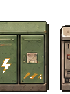
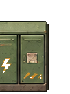
se corrigen solapamientos de sprites

Changed region(s): [[0.8571, 0.2553, 1.0, 0.9787]]

diff --git a/DeadBeat/core/src/main/java/com/deadbeat/world/CityMap.java b/DeadBeat/core/src/main/java/com/deadbeat/world/CityMap.java
@@ -269,8 +269,135 @@ public final class CityMap implements CollisionMap {
             float ry=streetCenter(by)+streetHalf(by)-26f;
             add(solids,rx,ry,96,46,Kind.CAR,2+s%2);
         }
+        resolveLayout(solids, decals, west, south, east, north);
         return new CityBlock(bx,by,district,west,south,east,north,
             solids.toArray(new Obstacle[0]), decals.toArray(new Decoration[0]));
+    }
+
+    private void resolveLayout(List<Obstacle> solids,List<Decoration> decals,
+                               float west,float south,float east,float north) {
+        resolveObstacleOverlaps(solids, west, south, east, north);
+        List<Decoration> cleaned = new ArrayList<Decoration>(decals.size());
+        for (Decoration d : decals) {
+            Decoration placed = relocateDecoration(d, cleaned, solids, west, south, east, north);
+            if (placed != null) cleaned.add(placed);
+        }
+        decals.clear();
+        decals.addAll(cleaned);
+    }
+
+    private void resolveObstacleOverlaps(List<Obstacle> solids,float west,float south,float east,float north) {
+        List<Obstacle> kept = new ArrayList<Obstacle>(solids.size());
+        for (Obstacle o : solids) {
+            if (o.kind == Kind.BUILDING) { kept.add(o); continue; }
+            if (!overlapsAny(o, kept, obstaclePadding(o.kind))) { kept.add(o); continue; }
+            Obstacle moved = relocateObstacle(o, kept, west, south, east, north);
+            if (moved != null) kept.add(moved);
+        }
+        solids.clear();
+        solids.addAll(kept);
+    }
+
+    private Obstacle relocateObstacle(Obstacle o,List<Obstacle> solids,float west,float south,float east,float north) {
+        float[] tries = new float[]{0f, 18f, -18f, 36f, -36f, 54f, -54f, 72f, -72f};
+        float pad = obstaclePadding(o.kind);
+        for (float dy : tries) for (float dx : tries) {
+            float nx = clamp(o.x + dx, west, east - o.width);
+            float ny = clamp(o.y + dy, south, north - o.height);
+            Obstacle candidate = new Obstacle(nx, ny, o.width, o.height, o.kind, o.style);
+            if (!overlapsAny(candidate, solids, pad)) return candidate;
+        }
+        return null;
+    }
+
+    private Decoration relocateDecoration(Decoration d,List<Decoration> placed,List<Obstacle> solids,
+                                          float west,float south,float east,float north) {
+        float[] tries = new float[]{0f, 14f, -14f, 28f, -28f, 42f, -42f, 56f, -56f};
+        float pad = decorationPadding(d.kind);
+        boolean avoidDecor = avoidDecorationOverlap(d.kind);
+        for (float dy : tries) for (float dx : tries) {
+            float nx = clamp(d.x + dx, west, east - d.width);
+            float ny = clamp(d.y + dy, south, north - d.height);
+            Decoration candidate = new Decoration(nx, ny, d.width, d.height, d.kind, d.style);
+            if (overlapsAny(candidate, solids, pad)) continue;
+            if (avoidDecor && overlapsAnyDecor(candidate, placed, pad)) continue;
+            return candidate;
+        }
+        return null;
+    }
+
+    private static boolean avoidDecorationOverlap(DecorKind kind) {
+        switch (kind) {
+            case PAPER:
+            case WEEDS:
+            case PUDDLE:
+            case GRAFFITI:
+                return false;
+            default:
+                return true;
+        }
+    }
+
+    private static float obstaclePadding(Kind kind) {
+        switch (kind) {
+            case FENCE: return 8f;
+            case CAR: return 6f;
+            case DUMPSTER:
+            case TENT:
+            case CRATE:
+            case BARRICADE:
+            case PLANTER:
+                return 5f;
+            default: return 0f;
+        }
+    }
+
+    private static float decorationPadding(DecorKind kind) {
+        switch (kind) {
+            case LAMP: return 8f;
+            case BENCH:
+            case VENDING:
+            case POWER:
+            case BARREL:
+            case TIRES:
+            case PALLET:
+            case BIN:
+            case FENCE:
+                return 5f;
+            case TRASH: return 4f;
+            default: return 1f;
+        }
+    }
+
+    private static boolean overlapsAny(Obstacle o,List<Obstacle> others,float padding) {
+        for (Obstacle other : others) {
+            if (intersects(o.x, o.y, o.width, o.height, other.x, other.y, other.width, other.height, padding)) return true;
+        }
+        return false;
+    }
+
+    private static boolean overlapsAny(Decoration d,List<Obstacle> others,float padding) {
+        for (Obstacle other : others) {
+            if (intersects(d.x, d.y, d.width, d.height, other.x, other.y, other.width, other.height, padding)) return true;
+        }
+        return false;
+    }
+
+    private static boolean overlapsAnyDecor(Decoration d,List<Decoration> others,float padding) {
+        for (Decoration other : others) {
+            if (intersects(d.x, d.y, d.width, d.height, other.x, other.y, other.width, other.height, padding)) return true;
+        }
+        return false;
+    }
+
+    private static boolean intersects(float ax,float ay,float aw,float ah,
+                                      float bx,float by,float bw,float bh,float padding) {
+        return ax + aw > bx + padding && ax + padding < bx + bw
+            && ay + ah > by + padding && ay + padding < by + bh;
+    }
+
+    private static float clamp(float value,float min,float max) {
+        return Math.max(min, Math.min(max, value));
     }
 
     private static void addBuilding(List<Obstacle> solids,float x,float y,float w,float h,int style) {

diff --git a/DeadBeat/docs/PROPS_0_5_3.md b/DeadBeat/docs/PROPS_0_5_3.md
@@ -42,3 +42,9 @@ Además se comprobaron las dimensiones y transparencia de los PNG corregidos. El
 - Para modificar la distancia a la que se rompen las bolsas: `CityMap.breakGarbageNear` y el radio pasado desde `GameWorld.update`.
 - Para sustituir las tres variantes visuales: editar los PNG, conservando el tamaño de 77 × 62 y el fondo transparente.
 - Para añadir más variantes: cargar los nuevos nombres en `CityRenderer.FILES` y ampliar `brokenGarbageVariant`.
+
+
+## 0.5.4 ajuste visual y de solapamientos
+- Se limpiaron recortes defectuosos en `garage_front.png`, `powerbox.png`, `roof_unit.png` y `car_horizontal_blue.png`.
+- Se añadió una pasada de resolución de solapamientos en `CityMap` para recolocar o descartar decoraciones que choquen con obstáculos (por ejemplo, neumáticos superpuestos con vallas).
+- Se conservan las colisiones físicas de las vallas y la interacción con bolsas de basura.
